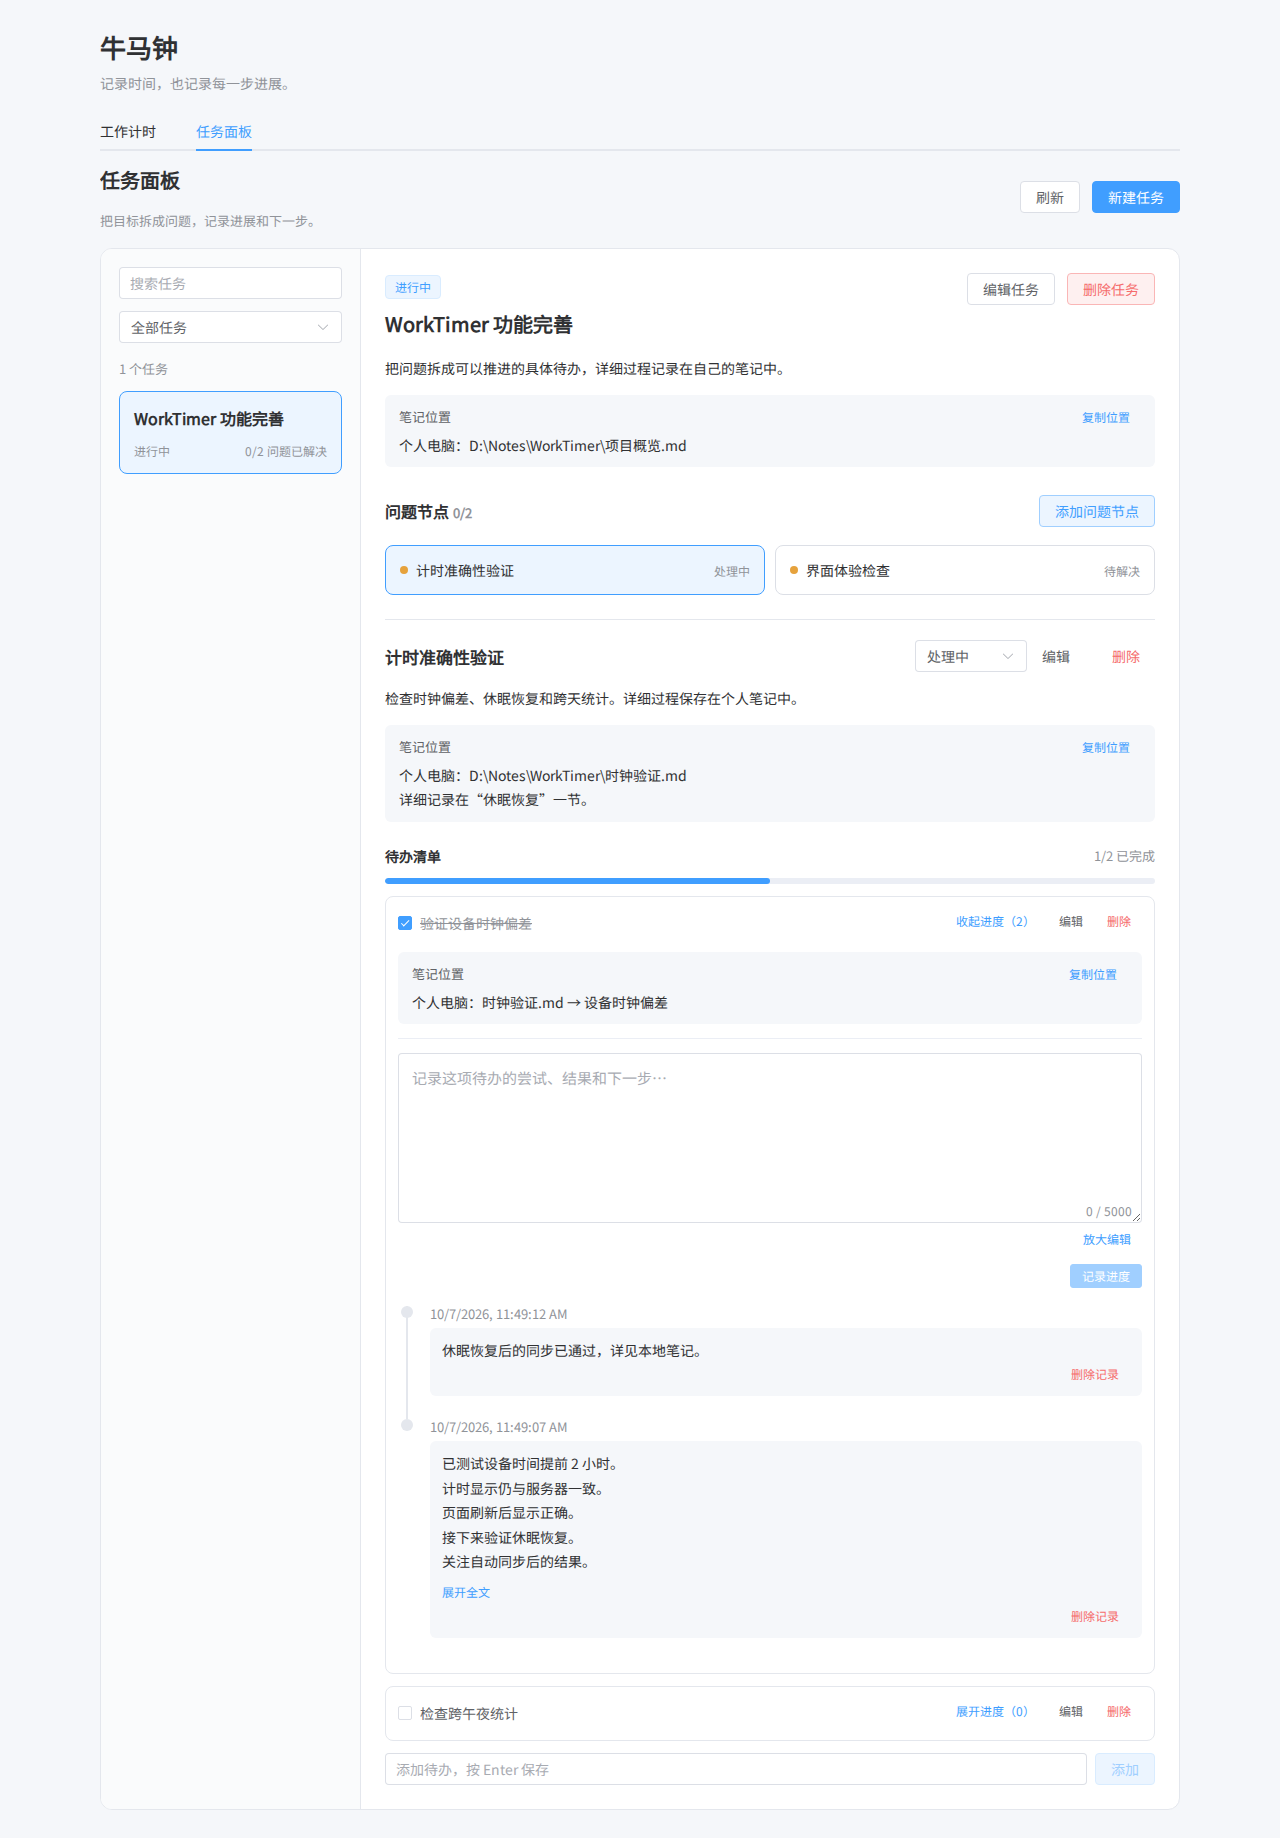
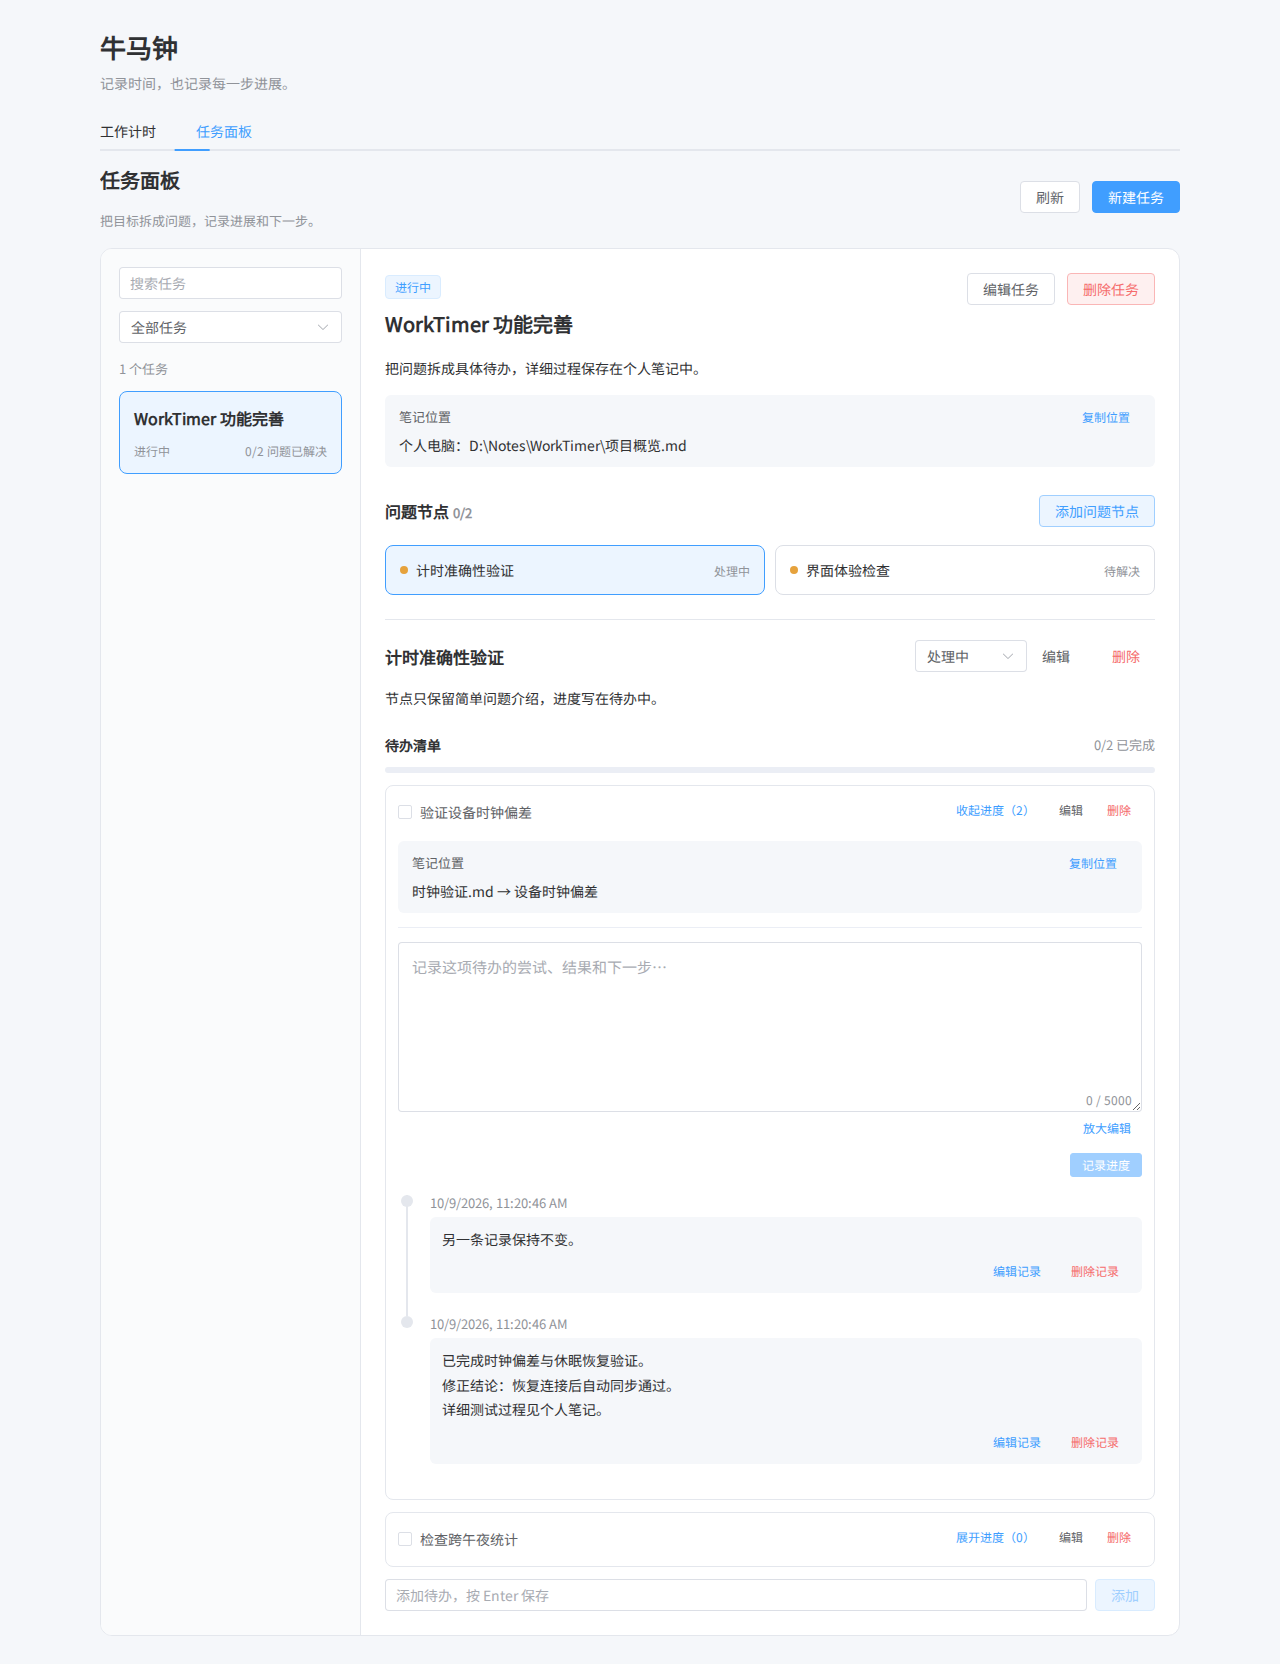
feat: edit progress entries and simplify problem nodes

diff --git a/frontend/src/components/ProgressEntry.vue b/frontend/src/components/ProgressEntry.vue
@@ -1,0 +1,100 @@
+<script setup>
+import { computed } from 'vue'
+import ExpandableText from './ExpandableText.vue'
+import PlainTextInput from './PlainTextInput.vue'
+
+const props = defineProps({
+  entry: { type: Object, required: true },
+  draft: { type: String, default: undefined },
+  busy: Boolean,
+  mutate: { type: Function, required: true },
+})
+const emit = defineEmits(['update:draft', 'delete'])
+const editing = computed(() => props.draft !== undefined)
+// Input: either editor's text. Output: parent-owned draft, retained across nodes.
+// Undefined means viewing; an empty string is a valid unsaved editing state.
+const text = computed({
+  get: () => props.draft ?? '',
+  set: (value) => emit('update:draft', value),
+})
+
+// Input: saved entry. Output: editable copy without changing the saved text.
+function startEditing() {
+  emit('update:draft', props.entry.content)
+}
+
+// Input: current draft. Output: discard local edits and show saved content.
+function cancelEditing() {
+  emit('update:draft', undefined)
+}
+
+// Input: nonblank edited body. Output: update this entry, retaining draft on failure.
+async function save() {
+  if (props.busy || !text.value.trim()) return
+  if (
+    await props.mutate(`/api/progress/${props.entry.id}`, 'PUT', {
+      content: text.value,
+    })
+  ) {
+    emit('update:draft', undefined)
+  }
+}
+</script>
+
+<template>
+  <div class="entry" :aria-label="`进度记录 ${entry.id}`">
+    <form v-if="editing" @submit.prevent="save">
+      <PlainTextInput v-model="text" label="进度记录" :disabled="busy" />
+      <div class="entry-actions">
+        <el-button size="small" :disabled="busy" @click="cancelEditing"
+          >取消</el-button
+        >
+        <el-button
+          type="primary"
+          size="small"
+          native-type="submit"
+          :disabled="busy || !text.trim()"
+          >保存修改</el-button
+        >
+      </div>
+    </form>
+    <template v-else>
+      <ExpandableText :text="entry.content" label="进度记录" />
+      <div class="entry-actions">
+        <el-button
+          text
+          type="primary"
+          size="small"
+          :disabled="busy"
+          @click="startEditing"
+          >编辑记录</el-button
+        >
+        <el-button
+          text
+          type="danger"
+          size="small"
+          :disabled="busy"
+          @click="emit('delete', entry.id)"
+          >删除记录</el-button
+        >
+      </div>
+    </template>
+  </div>
+</template>
+
+<style scoped>
+.entry {
+  padding: 10px 12px;
+  border-radius: 6px;
+  background: #f5f7fa;
+}
+.entry-actions {
+  display: flex;
+  justify-content: flex-end;
+  gap: 8px;
+  margin-top: 8px;
+}
+.entry-actions .el-button + .el-button {
+  margin-left: 0;
+}
+</style>

diff --git a/frontend/src/components/TodoItem.vue b/frontend/src/components/TodoItem.vue
@@ -1,12 +1,13 @@
 <script setup>
 import { computed } from 'vue'
-import ExpandableText from './ExpandableText.vue'
+import ProgressEntry from './ProgressEntry.vue'
 import PlainTextInput from './PlainTextInput.vue'
 import NoteLocation from './NoteLocation.vue'
 
 const props = defineProps({
   todo: Object,
   entries: Array,
+  editDrafts: { type: Object, required: true },
   draft: { type: String, default: '' },
   expanded: Boolean,
   busy: Boolean,
@@ -118,18 +119,13 @@ async function addProgress() {
           :timestamp="new Date(entry.created_at * 1000).toLocaleString()"
           placement="top"
         >
-          <div class="entry">
-            <ExpandableText :text="entry.content" label="进度记录" />
-            <el-button
-              text
-              size="small"
-              type="danger"
-              :disabled="busy"
-              class="delete-progress"
-              @click="emit('delete-progress', entry.id)"
-              >删除记录</el-button
-            >
-          </div>
+          <ProgressEntry
+            :entry="entry"
+            v-model:draft="editDrafts[entry.id]"
+            :busy="busy"
+            :mutate="mutate"
+            @delete="(id) => emit('delete-progress', id)"
+          />
         </el-timeline-item>
       </el-timeline>
     </section>
@@ -193,15 +189,6 @@ async function addProgress() {
 .progress-list {
   padding-left: 4px;
   margin: 18px 0 0;
-}
-.entry {
-  padding: 10px 12px;
-  border-radius: 6px;
-  background: #f5f7fa;
-}
-.entry .delete-progress {
-  display: block;
-  margin-left: auto;
 }
 @media (max-width: 600px) {
   .todo-heading {

diff --git a/frontend/src/components/TaskPanel.vue b/frontend/src/components/TaskPanel.vue
@@ -46,7 +46,8 @@ const progress = computed(() =>
 const drafts = reactive({})
 const nodeDraft = computed(() => {
   const id = selectedNodeId.value
-  if (!drafts[id]) drafts[id] = { todo: '', progress: {}, expanded: {} }
+  if (!drafts[id])
+    drafts[id] = { todo: '', progress: {}, progressEdits: {}, expanded: {} }
   // Read through the reactive map so the first node's nested drafts update UI.
   return drafts[id]
 })
@@ -152,7 +153,7 @@ async function saveEditor() {
     path = `/api/todos/${id}`
     body = { title, done: form.value.done }
   }
-  body.note_location = form.value.note_location
+  if (kind !== 'node') body.note_location = form.value.note_location
   const ok = await mutate(path, id ? 'PUT' : 'POST', body, (result) => {
     if (kind === 'task') {
       selectedTaskId.value = result.id
@@ -397,7 +398,7 @@ onUnmounted(() => {
                 :value="value" /></el-select
           ></el-form-item>
         </template>
-        <el-form-item label="笔记位置（可选）">
+        <el-form-item v-if="editorKind !== 'node'" label="笔记位置（可选）">
           <el-input
             v-model="form.note_location"
             type="textarea"

diff --git a/frontend/src/components/NodeDetail.vue b/frontend/src/components/NodeDetail.vue
@@ -2,7 +2,6 @@
 import { computed } from 'vue'
 import TodoItem from './TodoItem.vue'
 import ExpandableText from './ExpandableText.vue'
-import NoteLocation from './NoteLocation.vue'
 const props = defineProps({
   node: Object,
   draft: Object,
@@ -98,7 +97,6 @@ const changeStatus = (status) =>
       label="节点说明"
       class="description"
     />
-    <NoteLocation :location="node.note_location" />
     <div class="section-heading">
       <h4>待办清单</h4>
       <span class="muted">{{ completed }}/{{ todos.length }} 已完成</span>
@@ -115,6 +113,7 @@ const changeStatus = (status) =>
         :key="item.id"
         :todo="item"
         :entries="progressByTodo[item.id] || []"
+        :edit-drafts="draft.progressEdits"
         v-model:draft="draft.progress[item.id]"
         v-model:expanded="draft.expanded[item.id]"
         :busy="busy"

diff --git a/tests/test_api.py b/tests/test_api.py
@@ -84,6 +84,31 @@ class ApiTests(unittest.TestCase):
                 ''')
             db.execute(f'PRAGMA user_version={version}')
 
+    def test_edit_progress_preserves_identity_and_rejects_invalid_updates(self):
+        """Input: saved logs and edits. Output: only the selected body changes and persists."""
+        task = self.request('/api/tasks', 'POST', {'title':'任务','description':'','status':'todo'}, 201)['id']
+        node = self.request(f'/api/tasks/{task}/nodes', 'POST', {'title':'节点','description':'','status':'open'}, 201)['id']
+        todo = self.request(f'/api/nodes/{node}/todos', 'POST', {'title':'待办'}, 201)['id']
+        first = self.request(f'/api/todos/{todo}/progress', 'POST', {'content':'旧正文'}, 201)['id']
+        self.request(f'/api/todos/{todo}/progress', 'POST', {'content':'另一条记录'}, 201)
+        before = self.request('/api/tasks')
+        content = '  修正后的记录\n中文、引号 " 与路径 D:\\Notes\\test.md\n<script>plain text</script>  '
+        self.request(f'/api/progress/{first}', 'PUT', {'content':content,'todo_id':999,'created_at':0})
+        expected = dict(before)
+        expected['progress'] = [dict(entry, content=content) if entry['id'] == first else entry for entry in before['progress']]
+        self.assertEqual(self.request('/api/tasks'), expected)
+        # An identical update must also succeed; blank/invalid edits never erase text.
+        self.request(f'/api/progress/{first}', 'PUT', {'content':content})
+        for body in ({}, {'content':None}, {'content':42}, {'content':''}, {'content':' \n\t'}, {'content':'中'*6667}):
+            self.request(f'/api/progress/{first}', 'PUT', body, 400)
+        self.request('/api/progress/0', 'PUT', {'content':'正文'}, 400)
+        self.request('/api/progress/999999', 'PUT', {'content':'正文'}, 404)
+        self.stop()
+        self.start()
+        self.assertEqual(self.request('/api/tasks'), expected)
+        self.request(f'/api/progress/{first}', 'DELETE')
+        self.request(f'/api/progress/{first}', 'PUT', {'content':'已删除的记录'}, 404)
+
     def test_timer_validation_and_trim(self):
         state=self.request('/api/state')
         self.assertAlmostEqual(state['server_time'],time.time(),delta=2)

diff --git a/backend/src/WebServer.cpp b/backend/src/WebServer.cpp
@@ -161,6 +161,13 @@ void WebServer::setupRoutes() {
     CROW_ROUTE(app,"/api/todos/<int>/progress").methods(crow::HTTPMethod::POST)([this](const crow::request& req,int todoId) {
         return api([&] { return jsonResponse(Json{{"id",db.addProgress(todoId,textField(parse(req),"content",20000,true),nowSeconds())}},201); });
     });
+    CROW_ROUTE(app,"/api/progress/<int>").methods(crow::HTTPMethod::PUT)([this](const crow::request& req,int id) {
+        return api([&] {
+            if (id <= 0) throw RequestError(400,"无效记录 ID");
+            db.updateProgress(id,textField(parse(req),"content",20000,true));
+            return jsonResponse(Json{{"ok",true}});
+        });
+    });
     // Old pages must refresh rather than create another unassigned node log.
     CROW_ROUTE(app,"/api/nodes/<int>/progress").methods(crow::HTTPMethod::POST)([](int) {
         return jsonResponse(Json{{"error","进度记录已移入待办，请刷新页面后在具体待办内记录"}},410);

diff --git a/backend/include/db.hpp b/backend/include/db.hpp
@@ -290,6 +290,13 @@ public:
         insert.bind(1,todoId); insert.bind(2,content); insert.bind(3,now); insert.next();
         return static_cast<int>(sqlite3_last_insert_rowid(db));
     }
+    // Input: existing progress ID and validated text. Output: updated body only;
+    // preserve its original timestamp, owning todo, and position in the timeline.
+    void updateProgress(int id, const std::string& content) const {
+        std::lock_guard<std::mutex> lock(mutex);
+        Statement update(db,"UPDATE todo_progress SET content=? WHERE id=?;");
+        update.bind(1,content); update.bind(2,id); update.next(); requireChanged();
+    }
     void deleteBoardItem(const std::string& kind, int id) const {
         std::lock_guard<std::mutex> lock(mutex);
         // Only these hard-coded table names are accepted by callers.

diff --git a/docs/usage.md b/docs/usage.md
@@ -30,7 +30,7 @@
 | 进度记录 | 这项待办的尝试、结果与下一步 | 已核对均值和方差，下一步检查测试集预处理 |
 
 1. 点击“新建任务”，填写标题、说明和状态，可选填笔记位置。左侧可按任务标题/说明搜索，并按状态筛选。
-2. 选中任务，点击“添加问题节点”，填写问题标题、说明与状态，可选填笔记位置。同一任务下的节点是平级列表。
+2. 选中任务，点击“添加问题节点”，填写问题标题、说明与状态。同一任务下的节点是平级列表。
 3. 选中节点，在“待办清单”输入行动，按 Enter 或点击“添加”。新待办自动展开，方便接着记录进度；点击待办的“编辑”可补充笔记位置。
 4. 在具体待办内部填写日志，点击“记录进度”。日志按新增顺序倒序显示，并带有保存时间。
 5. 行动完成后勾选待办；日志仍可查看和继续追加。需要回看时点击“展开进度”，不看时收起。
@@ -41,7 +41,7 @@
 
 ### 简单介绍与笔记位置
 
-任务和节点的说明用来交代目标、问题与当前情况；详细笔记继续保存在你自己的设备上，用 VS Code 或原来的工具编辑。任务、节点、待办均有可选的“笔记位置”，留空不显示。
+任务和节点的说明用来交代目标、问题与当前情况；详细笔记继续保存在你自己的设备上，用 VS Code 或原来的工具编辑。任务、待办有可选的“笔记位置”，留空不显示。问题节点仅保留标题、说明与状态，不再显示或编辑笔记位置。
 
 可填写 `个人电脑：D:\Notes\实验记录.md`、`共享盘：项目A/实验/归一化.md，第3节`，也可以写“蓝色笔记本第 12 页”。加上设备、目录或章节，其他人更容易理解。服务仅保存这段位置文字；连接同一服务的人能看到它，但不会因此获得本地文件。笔记正文不会被读取、上传或同步。
 
@@ -65,7 +65,9 @@
 
 节点里的进度条表示“已完成待办数 / 待办总数”。任务卡片显示“已解决节点数 / 节点总数”。这些是数量统计，不是根据日志文字推断出的工作进度。
 
-编辑任务、节点或待办的标题、说明及笔记位置后需要点击保存。节点状态下拉框和待办复选框直接发起保存请求。进度日志当前支持追加和删除，没有编辑已保存日志的功能；要更正可以追加说明，或删除后重新记录。
+编辑任务、节点或待办的表单后需要点击保存。节点状态下拉框和待办复选框直接发起保存请求。
+
+已有进度日志支持“编辑记录”：在原记录内修改正文，可放大编辑，点击“保存修改”提交；“取消”放弃本次草稿。保存只更新正文，原记录时间、排列位置与所属待办不变，不额外追加一条日志。空白内容不能保存；保存失败时保留草稿。编辑中的草稿在折叠待办、切换节点和面板刷新时保留，刷新整个网页后丢失。已完成待办内的日志仍可编辑；删除记录的行为不变。
 
 ## 5. 保存、删除和多端同步
 

diff --git a/docs/data-flow.md b/docs/data-flow.md
@@ -191,6 +191,8 @@ anchor = monotonicNow()
 
 ## 6. 笔记位置与纯文本编辑
 
-任务、节点、待办的编辑表单持有 `note_location` 草稿，保存时通过现有 POST/PUT 路由提交。后端用 `noteLocationField()` 区分“省略”与“空字符串”，再传给 `saveTask()` / `saveNode()` / `saveTodo()`：新对象省略时为空，已有对象省略时不改原值。待办勾选和节点状态快捷更新不发送此字段，因此保留原位置。查询快照返回文字，由 `NoteLocation` 展示与复制；复制不发送 API 请求。
+任务、待办的编辑表单持有 `note_location` 草稿，保存时通过现有 POST/PUT 路由提交。后端用 `noteLocationField()` 区分“省略”与“空字符串”，再传给数据库方法：新对象省略时为空，已有对象省略时不改原值。节点界面已移除该项，节点保存及状态快捷更新均不发送此字段，旧值在数据库中保留以兼容旧客户端。查询快照中的任务、待办位置由 `NoteLocation` 展示与复制；复制不发送 API 请求。
 
 `PlainTextInput` 的普通输入框和放大窗口通过 `v-model` 连接同一份父级草稿。完成放大编辑只关闭窗口，实际提交仍由任务表单、计时笔记表单或待办日志的保存按钮负责。`ExpandableText` 只控制显示高度，完整字符串始终保留，展开不会额外请求数据。
+
+已有日志由 `ProgressEntry` 管理查看/编辑交互。`TaskPanel.drafts` 下的 `progressEdits` 按日志 ID 保存草稿，经 `NodeDetail` 和 `TodoItem` 传入；`undefined` 表示查看状态，空字符串表示正在编辑但尚未填写，不能混淆。保存通过同一个 `mutate` 发送 `PUT /api/progress/:id`，后端 `updateProgress()` 只修改正文。写入失败保留草稿；成功退出编辑并刷新快照；取消仅清除对应草稿，不发送请求。父级保存草稿使节点切换和轮询不会覆盖正在编辑的文字。

diff --git a/docs/database.md b/docs/database.md
@@ -104,6 +104,8 @@ erDiagram
 
 ### todo_progress
 
+编辑通过 `updateProgress(id, content)` 仅更新正文，创建时间和所属待办不变；不新增修改时间列或版本历史。
+
 | 字段 | 类型与约束 | 含义 |
 | --- | --- | --- |
 | `id` | INTEGER，主键自增 | 日志 ID |
@@ -162,6 +164,8 @@ Crow 可以多线程处理请求，单个 `Database` 对象用互斥锁串行执
 新库和版本 0 的旧库依次执行两次迁移；版本 1 只执行新增字段迁移；版本 2 启动时跳过两次迁移。字段由启动流程管理，无需手动改库。
 
 `note_location` 保存位置文字，没有文件存储或路径解析。API 创建时省略该字段会写入空字符串；更新时省略会保留原值，显式 `""` 才清空。SQL 使用绑定参数与 `COALESCE(?,note_location)` 区分这两种情况，旧客户端和快捷勾选不会意外清空位置。
+
+节点界面已移除笔记位置，`problem_nodes.note_location` 作为兼容字段保留旧值；任务与待办仍使用该字段。此次界面简化和日志编辑不改变数据库结构，版本保持 2。
 
 旧 `node_progress` 表保留，但当前 API 不再读写它。它仍有节点外键，删除对应节点/任务时旧表记录也会级联删除，因此它不是完整的数据库备份或可靠的版本回退机制。不要手工重置 `user_version` 来重复运行迁移。
 

diff --git a/docs/architecture.md b/docs/architecture.md
@@ -72,6 +72,7 @@ flowchart TB
 | [TaskPanel.vue](../frontend/src/components/TaskPanel.vue) | 持有面板快照、任务/节点选择、编辑表单与草稿；统一协调 `load` / `mutate` 和轮询 |
 | [NodeDetail.vue](../frontend/src/components/NodeDetail.vue) | 节点状态、待办完成比例、新建待办；按 `todo_id` 为各待办分组日志 |
 | [TodoItem.vue](../frontend/src/components/TodoItem.vue) | 待办勾选、日志折叠与输入；调用传入的 `mutate` 保存日志 |
+| [ProgressEntry.vue](../frontend/src/components/ProgressEntry.vue) | 单条日志的查看、编辑、保存与取消；通过父级草稿保留跨节点编辑状态 |
 | [ExpandableText.vue](../frontend/src/components/ExpandableText.vue) | 测量纯文本预览高度，控制全文展开；不解析富文本 |
 | [PlainTextInput.vue](../frontend/src/components/PlainTextInput.vue) | 自动增高输入框与放大编辑窗口，共享父级草稿，不自行提交 |
 | [NoteLocation.vue](../frontend/src/components/NoteLocation.vue) / [utils/clipboard.js](../frontend/src/utils/clipboard.js) | 展示笔记位置、复制和手动选择回退；不读取或打开文件 |
